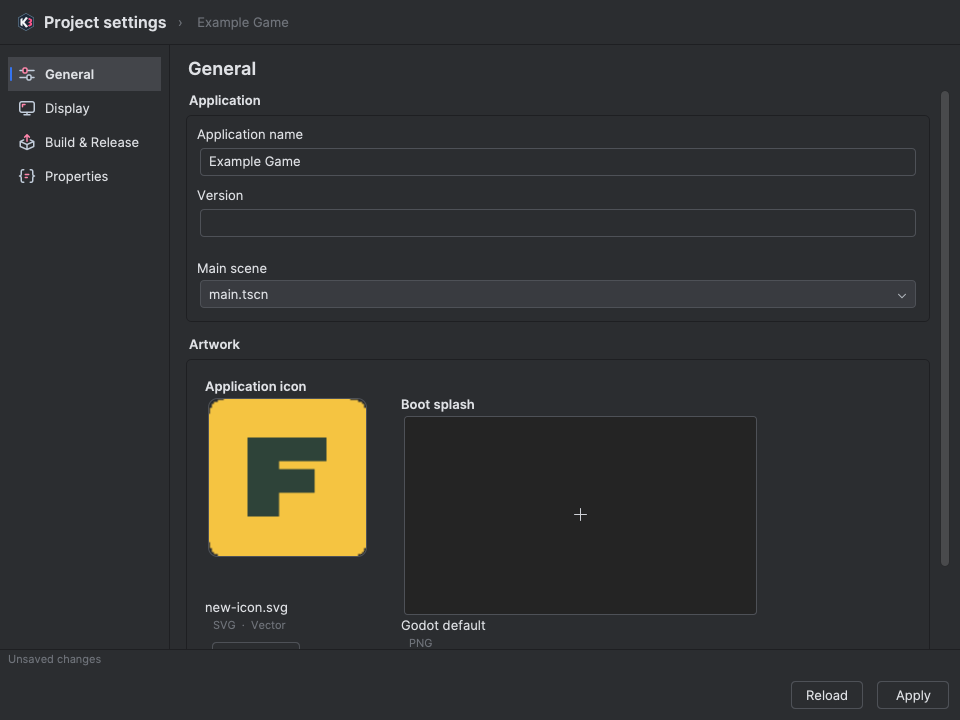
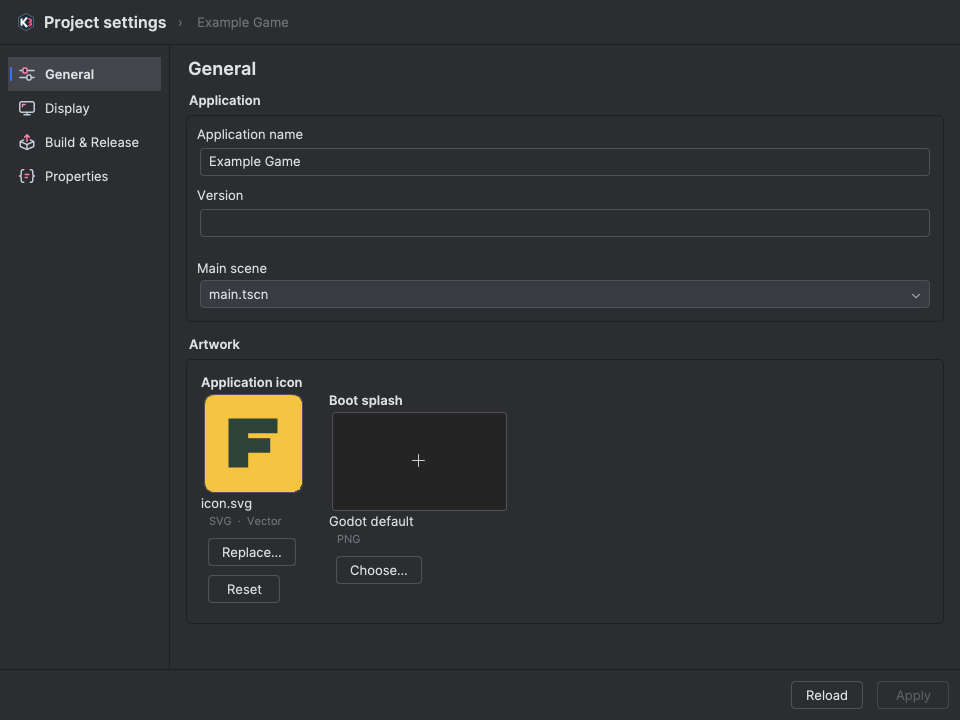
jetbrains: polish Properties plist table and fix Artwork preview sizing

diff --git a/editors/jetbrains/src/main/kotlin/app/anicanon/kumikae/as3/settings/GodotProperties.kt b/editors/jetbrains/src/main/kotlin/app/anicanon/kumikae/as3/settings/GodotProperties.kt
@@ -5,13 +5,27 @@ import androidx.compose.runtime.getValue
 import androidx.compose.runtime.mutableStateOf
 import androidx.compose.runtime.remember
 import androidx.compose.runtime.setValue
-import app.anicanon.kumikae.as3.ui.StatusLine
+import app.anicanon.kumikae.as3.ui.Column
 import app.anicanon.kumikae.as3.ui.SurfaceGroup
+import com.intellij.icons.AllIcons
+import com.intellij.ui.JBColor
+import com.intellij.util.ui.JBFont
 import com.intellij.util.ui.JBUI
+import com.intellij.util.ui.UIUtil
 import org.jetbrains.compose.swing.components.Label
-import org.jetbrains.compose.swing.components.button.Button
+import org.jetbrains.compose.swing.components.layout.Panel
+import org.jetbrains.compose.swing.components.layout.PanelLayout
 import org.jetbrains.compose.swing.modifier.SwingModifier
 import org.jetbrains.compose.swing.modifier.appearance.emptyBorder
+import org.jetbrains.compose.swing.modifier.appearance.font
+import org.jetbrains.compose.swing.modifier.appearance.foreground
+import org.jetbrains.compose.swing.node.SwingNode
+import java.awt.Cursor
+import java.awt.Dimension
+import java.awt.Graphics
+import javax.swing.JButton
+import javax.swing.JComponent
+import javax.swing.SwingConstants
 
 @Composable
 internal fun GodotProperties(source: String) {
@@ -21,16 +35,82 @@ internal fun GodotProperties(source: String) {
         val keys = config.properties(section)
         if (keys.isEmpty()) continue
         val open = section in expanded
-        Button((if (open) "▾  " else "▸  ") + section.ifBlank { "Project file" }, {
-            expanded = if (open) expanded - section else expanded + section
-        })
-        if (open) {
-            SurfaceGroup(SwingModifier.emptyBorder(JBUI.insetsBottom(8)), padding = 10) {
-                for (key in keys) {
-                    Label(key)
-                    StatusLine(config.raw(section, key).orEmpty())
+        val title = section.ifBlank { "Project file" }
+        SurfaceGroup(SwingModifier.emptyBorder(JBUI.insetsBottom(10)), padding = 0) {
+            Panel(PanelLayout.Border(8, 0), modifier = SwingModifier.emptyBorder(JBUI.insets(6, 10))) {
+                SectionDisclosure(title, open, SwingModifier.center()) {
+                    expanded = if (open) expanded - section else expanded + section
+                }
+                Label(
+                    "${keys.size}",
+                    SwingModifier.east()
+                        .font(JBFont.small())
+                        .foreground(UIUtil.getContextHelpForeground())
+                        .emptyBorder(JBUI.insetsRight(4)),
+                )
+            }
+            if (open) {
+                SectionDivider()
+                Column(SwingModifier.emptyBorder(JBUI.insets(4, 12, 8, 12))) {
+                    for ((index, key) in keys.withIndex()) {
+                        val topPad = if (index == 0) 4 else 5
+                        Panel(
+                            PanelLayout.Grid(1, 2, JBUI.scale(16), 0),
+                            modifier = SwingModifier.emptyBorder(JBUI.insets(topPad, 0, 5, 0)),
+                        ) {
+                            Label(key, SwingModifier.font(JBFont.label()))
+                            Label(
+                                config.raw(section, key).orEmpty(),
+                                SwingModifier.font(JBFont.label()).foreground(UIUtil.getContextHelpForeground()),
+                            )
+                        }
+                    }
                 }
             }
         }
     }
+}
+
+@Composable
+private fun SectionDisclosure(title: String, open: Boolean, modifier: SwingModifier, toggle: () -> Unit) {
+    SwingNode(
+        modifier = modifier,
+        factory = {
+            JButton(title).apply {
+                horizontalAlignment = SwingConstants.LEFT
+                isContentAreaFilled = false
+                isBorderPainted = false
+                isFocusPainted = false
+                isOpaque = false
+                border = JBUI.Borders.empty(2, 2)
+                font = JBFont.label().asBold()
+                iconTextGap = JBUI.scale(6)
+                cursor = Cursor.getPredefinedCursor(Cursor.HAND_CURSOR)
+                addActionListener { toggle() }
+            }
+        },
+        update = {
+            set(title) { text = it }
+            set(open) { icon = if (it) AllIcons.General.ArrowDown else AllIcons.General.ArrowRight }
+        },
+    )
+}
+
+@Composable
+private fun SectionDivider() {
+    SwingNode(factory = {
+        object : JComponent() {
+            init {
+                val height = JBUI.scale(1)
+                preferredSize = Dimension(0, height)
+                minimumSize = Dimension(0, height)
+                maximumSize = Dimension(Int.MAX_VALUE, height)
+            }
+
+            override fun paintComponent(g: Graphics) {
+                g.color = JBColor.border()
+                g.fillRect(0, 0, width, height)
+            }
+        }
+    })
 }

diff --git a/editors/jetbrains/src/main/kotlin/app/anicanon/kumikae/as3/settings/ProjectIconPreview.kt b/editors/jetbrains/src/main/kotlin/app/anicanon/kumikae/as3/settings/ProjectIconPreview.kt
@@ -28,7 +28,10 @@ internal fun ProjectIconPreview(art: Artwork?, title: String, layout: SplashLayo
         }
         set(layout) {
             splash = it
-            preferredSize = if (it == null) JBUI.size(164, 204) else JBUI.size(336, 204)
+            val box = if (it == null) JBUI.size(104, 104) else JBUI.size(184, 104)
+            preferredSize = box
+            minimumSize = box
+            maximumSize = box
             revalidate()
             repaint()
         }

diff --git a/editors/jetbrains/src/main/kotlin/app/anicanon/kumikae/as3/settings/ArtworkField.kt b/editors/jetbrains/src/main/kotlin/app/anicanon/kumikae/as3/settings/ArtworkField.kt
@@ -20,7 +20,7 @@ internal fun ArtworkField(
     layout: SplashLayout? = null,
     change: (String) -> Unit,
 ) {
-    Column(SwingModifier.emptyBorder(JBUI.insets(8))) {
+    Column(SwingModifier.emptyBorder(JBUI.insets(4))) {
         Label(kind.title, SwingModifier.font(JBFont.label().asBold()))
         ProjectIconPreview(preview, "Choose ${kind.title.lowercase()}", layout) { choose(kind, change) }
         Label(path.substringAfterLast('/').ifEmpty { "Godot default" })
